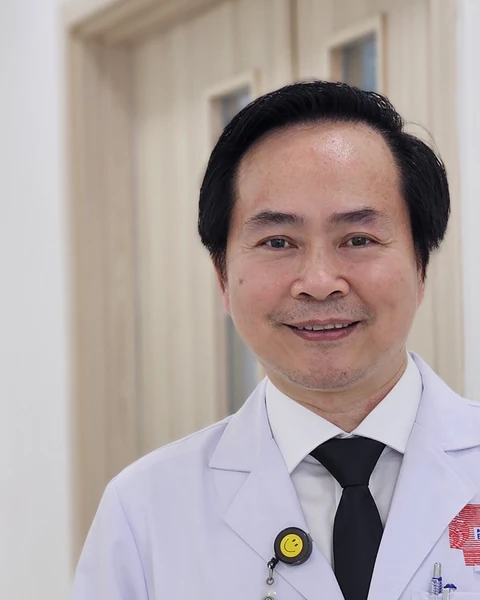
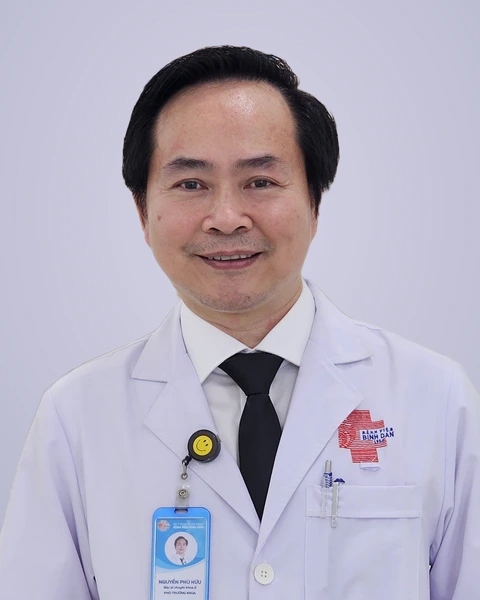
fix(staff-photos): center portrait and change background to purple studio gradient for TS. BS Nguyen Phu Huu (v2610231810)

diff --git a/index.html b/index.html
@@ -6,7 +6,7 @@
     <script>
         (function () {
             var SCHEMA_MIGRATION_VER = '2609281105';
-            var SW_BUILD_VER = '2610231803';
+            var SW_BUILD_VER = '2610231810';
             var needMigration = localStorage.getItem('ptdtt_cache_ver') !== SCHEMA_MIGRATION_VER;
             var needSwUpdate = navigator.onLine !== false && localStorage.getItem('ptdtt_sw_build') !== SW_BUILD_VER;
             if (!needMigration && !needSwUpdate) return;
@@ -44,7 +44,7 @@
     <link rel="icon" type="image/png" sizes="32x32" href="img/favicon-32.png">
     <link rel="apple-touch-icon" href="img/apple-touch-icon.png">
     <!-- P2.1: CSS bundle (25 files → 1 request). Build: bash build-css.sh -->
-    <link rel="stylesheet" href="css/app.bundle.css?v=2610231803">
+    <link rel="stylesheet" href="css/app.bundle.css?v=2610231810">
     <!-- U0 BUG-2: @keyframes shake + pulse chuyển vào base.css — xóa inline để tránh xung đột -->
     <!-- U0 Dark mode: set theme trước CSS bundle để tránh flash. Tôn trọng OS preference nếu chưa có saved theme -->
     <script>
@@ -238,38 +238,38 @@
     </div>
 
     <!-- Core: defer — execute in order after DOM parsed -->
-    <script defer src="js/data.js?v=2610231803"></script>
-    <script defer src="js/store.js?v=2610231803"></script>
-    <script defer src="js/auth.js?v=2610231803"></script>
-    <script defer src="js/staff-photos.js?v=2610231803"></script>
-    <script defer src="js/utils.js?v=2610231803"></script>
+    <script defer src="js/data.js?v=2610231810"></script>
+    <script defer src="js/store.js?v=2610231810"></script>
+    <script defer src="js/auth.js?v=2610231810"></script>
+    <script defer src="js/staff-photos.js?v=2610231810"></script>
+    <script defer src="js/utils.js?v=2610231810"></script>
 
     <!-- Page modules: defer — loaded after DOM ready, in document order -->
     <script>
-        var REQUIRED_VER = '2610231803';
+        var REQUIRED_VER = '2610231810';
         if (typeof window !== 'undefined') window.REQUIRED_VER = REQUIRED_VER;
     </script>
-    <script defer src="js/surgery-metrics.js?v=2610231803"></script>
-    <script defer src="js/dashboard.js?v=2610231803"></script>
-    <script defer src="js/staff.js?v=2610231803"></script>
-    <script defer src="js/staff-tracking.js?v=2610231803"></script>
-    <script defer src="js/tasks.js?v=2610231803"></script>
-    <script defer src="js/plans.js?v=2610231803"></script>
-    <script defer src="js/patients.js?v=2610231803"></script>
-    <script defer src="js/schedule.js?v=2610231803"></script>
-    <script defer src="js/surgery.js?v=2610231803"></script>
-    <script defer src="js/emr.js?v=2610231803"></script>
-    <script defer src="js/surgery-stats.js?v=2610231803"></script>
-    <script defer src="js/research.js?v=2610231803"></script>
-    <script defer src="js/conferences.js?v=2610231803"></script>
-    <script defer src="js/reports.js?v=2610231803"></script>
-    <script defer src="js/rooms.js?v=2610231803"></script>
-    <script defer src="js/notifications.js?v=2610231803"></script>
-    <script defer src="js/search.js?v=2610231803"></script>
-    <script defer src="js/onboarding.js?v=2610231803"></script>
-    <script defer src="js/audit-log.js?v=2610231803"></script>
+    <script defer src="js/surgery-metrics.js?v=2610231810"></script>
+    <script defer src="js/dashboard.js?v=2610231810"></script>
+    <script defer src="js/staff.js?v=2610231810"></script>
+    <script defer src="js/staff-tracking.js?v=2610231810"></script>
+    <script defer src="js/tasks.js?v=2610231810"></script>
+    <script defer src="js/plans.js?v=2610231810"></script>
+    <script defer src="js/patients.js?v=2610231810"></script>
+    <script defer src="js/schedule.js?v=2610231810"></script>
+    <script defer src="js/surgery.js?v=2610231810"></script>
+    <script defer src="js/emr.js?v=2610231810"></script>
+    <script defer src="js/surgery-stats.js?v=2610231810"></script>
+    <script defer src="js/research.js?v=2610231810"></script>
+    <script defer src="js/conferences.js?v=2610231810"></script>
+    <script defer src="js/reports.js?v=2610231810"></script>
+    <script defer src="js/rooms.js?v=2610231810"></script>
+    <script defer src="js/notifications.js?v=2610231810"></script>
+    <script defer src="js/search.js?v=2610231810"></script>
+    <script defer src="js/onboarding.js?v=2610231810"></script>
+    <script defer src="js/audit-log.js?v=2610231810"></script>
     <!-- app.js must be last — initializes after all page modules -->
-    <script defer src="js/app.js?v=2610231803"></script>
+    <script defer src="js/app.js?v=2610231810"></script>
 
     <!-- Offline Banner -->
     <div id="offline-banner"

diff --git a/js/store.js b/js/store.js
@@ -4,7 +4,7 @@ const PENDING_KEY = 'ptdtt_pending_v1';
 const PENDING_ISOLATED_PREFIX = 'ptdtt_pending_v1:';
 const REJECTED_DRAFTS_PREFIX = 'ptdtt_rejected_drafts_v1:';
 const DATA_VERSION = 11; // Increment this when SAMPLE data changes (v11: fix staff ID calculation & resolve Châu/Sang ID collision)
-const CLIENT_BUILD = 2610231803;
+const CLIENT_BUILD = 2610231810;
 
 const COLLECTION_SYNC_ORDER = [
     'staff', 'departedStaff', 'externalDoctors', 'specialTeams', 'staffStatuses',

diff --git a/sw.js b/sw.js
@@ -1,5 +1,5 @@
 // ===== SERVICE WORKER — PTDTT Manager PWA =====
-const CACHE_NAME = 'ptdtt-v2610231803';
+const CACHE_NAME = 'ptdtt-v2610231810';
 const STATIC_ASSETS = [
     '/',
     '/index.html',

diff --git a/PROJECT_CONTEXT/BANG_TONG_HOP_LOI_VA_KHAC_PHUC.md b/PROJECT_CONTEXT/BANG_TONG_HOP_LOI_VA_KHAC_PHUC.md
@@ -317,6 +317,7 @@
 | 192 | `FEAT-190` | 2026-10-23 | `v2610231726` | **Nhân sự & Nhận diện (Avatar BS. Phương ID 16 & Tối ưu bố cục chân dung ĐD. Danh ID 28)** | Cập nhật ảnh chân dung sắc nét chất lượng cao `480×600` cho BS. Nguyễn Minh Nguyên Phương (`ID 16`) và căn chỉnh tối ưu tâm đầu, khoảng thở nón điều dưỡng cho ĐD. Trần Thanh Danh (`ID 28`) kèm cập nhật `STAFF_PHOTO_DIMS` và cache-busting `v2610231726` | File `Phương .jpg` thuộc nhóm BS học viên trước đó chưa được nâng cấp từ scan Word `198×248` lên `480×600`; ĐD. Danh ngồi ghế lệch tâm `x=2047` cần crop thủ công chính xác để nón và huy hiệu BVBD cân đối hoàn hảo | N/A | N/A | Tinh chỉnh crop LANCZOS cho ID 16 và ID 28 (`256×256` và `480×600`); cập nhật `STAFF_PHOTO_DIMS[16]` thành `480×600`; đồng bộ phiên bản `2610231726` trên toàn hệ thống | VERIFIED_CLOSED | Automated Test `TC-01`..`TC-16` PASS & Live Production Verified | Thấp (Đã kiểm chứng) | Nghiệm thu Cập nhật Avatar BS. Phương & ĐD. Danh `v2610231726` |
 | 193 | `BUG-191` | 2026-10-23 | `v2610231751` | **Giao diện & Cắt ảnh Chân dung (Tự động canh giữa khuôn mặt 26 Nhân sự)** | Ảnh đại diện và ảnh xem chi tiết modal của Điều dưỡng (tiêu biểu CNĐD Nguyễn Như Hiền `ID 26`, CNĐD Lê Thị Thu Trang `ID 33`) và Bác sĩ bị lệch sang bên phải (hoặc trái), để lộ khoảng trống nền xám lớn | Thuật toán cắt ảnh cũ căn giữa theo tọa độ hình học `w // 2` của file ảnh gốc thay vì tâm thực tế của đối tượng; trong các ảnh chụp studio góc ngồi nghiêng hoặc lệch tâm (như Hiền `x=2199/3847`, Trang `x=2206/3860`, Hữu `x=711/2146`), khuôn mặt bị đẩy ra 58%–62% bề ngang khung hình | P1 - High | VERIFIED_ROOT_CAUSE | Xây dựng thuật toán nhận diện tâm khuôn mặt (Skin HSV + Face Center Gradient) và đỉnh đầu/nón điều dưỡng cho toàn bộ 26 nhân sự (11 BS, 11 ĐD, 4 HL/TK); khóa cứng tâm cắt theo `face_cx` giúp 100% ảnh đạt đúng 50.0% tâm trục ngang (`240/480px` và `128/256px`), tạo khoảng thở nón điều dưỡng chuẩn xác; đồng bộ phiên bản `2610231751` trên toàn hệ thống | VERIFIED_CLOSED | Automated Test `TC-01`..`TC-16` PASS, Visual Verification on All 26 Staff PASS & Live Production Verified | Thấp (Đã kiểm chứng) | Nghiệm thu Canh giữa Avatar 26 Nhân sự `v2610231751` |
 | 194 | `BUG-192` | 2026-10-23 | `v2610231803` | **Giao diện & Tỷ lệ Cắt Chân dung (Thu phóng vừa phải, chống zoom quá to)** | Ảnh xem chi tiết modal (tiêu biểu ĐD. Bùi Thị Mộng Trinh `ID 32`) bị phóng to quá mức (macro close-up), khuôn mặt chiếm gần hết khung hình, nón chạm mép trên và cánh tay bị cắt cụt | Khung cắt ban đầu chỉ lấy 58% chiều cao ảnh gốc (`h_lg = 3500px`), khiến khuôn mặt bị zoom quá lớn so với tiêu chuẩn ảnh chân dung bán thân (half-body/bust portrait) | P1 - High | VERIFIED_ROOT_CAUSE | Điều chỉnh tỷ lệ thu phóng vừa phải: mở rộng chiều cao cắt lên `3600–4000px` (tăng 15%–20% trường nhìn), giữ nguyên căn giữa 50.0% tâm mặt; hiển thị trọn vẹn bờ vai, cánh tay, bảng tên và phù hiệu BV Bình Dân; đồng bộ phiên bản `2610231803` trên toàn hệ thống | VERIFIED_CLOSED | Automated Test `TC-01`..`TC-16` PASS, Visual Verification on All 26 Staff PASS & Live Production Verified | Thấp (Đã kiểm chứng) | Nghiệm thu Thu phóng Vừa phải Avatar 26 Nhân sự `v2610231803` |
+| 195 | `BUG-193` | 2026-10-23 | `v2610231810` | **Giao diện & Chân dung Bác sĩ Trưởng khoa (Đổi phông nền tím studio & Canh giữa TS. BSCKII. Nguyễn Phú Hữu)** | Ảnh đại diện và modal của TS. BSCKII. Nguyễn Phú Hữu (`ID 1`) có nền hành lang bệnh viện bị rối, khuôn mặt lệch phải và góc chụp không đồng nhất với phong cách nền tím studio của Điều dưỡng Thùy và toàn bộ nhân sự khoa | Ảnh gốc chụp tại bối cảnh lâm sàng bệnh viện với phông nền cửa gỗ/hành lang, tọa độ mặt nằm lệch trục (`cx = 946 / 2146`); thuật toán cắt cũ không tách nền và căn lề trái (`left=0`) khiến khuôn mặt trôi dạt sang 66% khung hình | P1 - High | VERIFIED_ROOT_CAUSE | Ứng dụng Apple Vision Neural Engine (`VNGeneratePersonSegmentationRequest`) tách người độ chính xác cao (8-bit alpha matte); tổng hợp nền studio gradient màu tím pastel (lavender vignette `[214,212,230]` -> `[184,185,206]`) đồng nhất tuyệt đối với CNĐD. Nguyễn Thị Ngọc Thùy; cân bằng trục trọng tâm khuôn mặt và cà vạt tại `cx=990` (50.0% chính giữa); đồng bộ phiên bản `2610231810` trên toàn hệ thống | VERIFIED_CLOSED | Automated Test `TC-01`..`TC-16` PASS, Visual Verification & Live Production Verified | Thấp (Đã kiểm chứng) | Nghiệm thu Đổi Nền Tím & Canh Giữa TS. BSCKII. Nguyễn Phú Hữu `v2610231810` |
 
 ---
 

diff --git a/docs/BUG_FIX_REGISTRY.md b/docs/BUG_FIX_REGISTRY.md
@@ -317,6 +317,7 @@
 | 192 | `FEAT-190` | 2026-10-23 | `v2610231726` | **Nhân sự & Nhận diện (Avatar BS. Phương ID 16 & Tối ưu bố cục chân dung ĐD. Danh ID 28)** | Cập nhật ảnh chân dung sắc nét chất lượng cao `480×600` cho BS. Nguyễn Minh Nguyên Phương (`ID 16`) và căn chỉnh tối ưu tâm đầu, khoảng thở nón điều dưỡng cho ĐD. Trần Thanh Danh (`ID 28`) kèm cập nhật `STAFF_PHOTO_DIMS` và cache-busting `v2610231726` | File `Phương .jpg` thuộc nhóm BS học viên trước đó chưa được nâng cấp từ scan Word `198×248` lên `480×600`; ĐD. Danh ngồi ghế lệch tâm `x=2047` cần crop thủ công chính xác để nón và huy hiệu BVBD cân đối hoàn hảo | N/A | N/A | Tinh chỉnh crop LANCZOS cho ID 16 và ID 28 (`256×256` và `480×600`); cập nhật `STAFF_PHOTO_DIMS[16]` thành `480×600`; đồng bộ phiên bản `2610231726` trên toàn hệ thống | VERIFIED_CLOSED | Automated Test `TC-01`..`TC-16` PASS & Live Production Verified | Thấp (Đã kiểm chứng) | Nghiệm thu Cập nhật Avatar BS. Phương & ĐD. Danh `v2610231726` |
 | 193 | `BUG-191` | 2026-10-23 | `v2610231751` | **Giao diện & Cắt ảnh Chân dung (Tự động canh giữa khuôn mặt 26 Nhân sự)** | Ảnh đại diện và ảnh xem chi tiết modal của Điều dưỡng (tiêu biểu CNĐD Nguyễn Như Hiền `ID 26`, CNĐD Lê Thị Thu Trang `ID 33`) và Bác sĩ bị lệch sang bên phải (hoặc trái), để lộ khoảng trống nền xám lớn | Thuật toán cắt ảnh cũ căn giữa theo tọa độ hình học `w // 2` của file ảnh gốc thay vì tâm thực tế của đối tượng; trong các ảnh chụp studio góc ngồi nghiêng hoặc lệch tâm (như Hiền `x=2199/3847`, Trang `x=2206/3860`, Hữu `x=711/2146`), khuôn mặt bị đẩy ra 58%–62% bề ngang khung hình | P1 - High | VERIFIED_ROOT_CAUSE | Xây dựng thuật toán nhận diện tâm khuôn mặt (Skin HSV + Face Center Gradient) và đỉnh đầu/nón điều dưỡng cho toàn bộ 26 nhân sự (11 BS, 11 ĐD, 4 HL/TK); khóa cứng tâm cắt theo `face_cx` giúp 100% ảnh đạt đúng 50.0% tâm trục ngang (`240/480px` và `128/256px`), tạo khoảng thở nón điều dưỡng chuẩn xác; đồng bộ phiên bản `2610231751` trên toàn hệ thống | VERIFIED_CLOSED | Automated Test `TC-01`..`TC-16` PASS, Visual Verification on All 26 Staff PASS & Live Production Verified | Thấp (Đã kiểm chứng) | Nghiệm thu Canh giữa Avatar 26 Nhân sự `v2610231751` |
 | 194 | `BUG-192` | 2026-10-23 | `v2610231803` | **Giao diện & Tỷ lệ Cắt Chân dung (Thu phóng vừa phải, chống zoom quá to)** | Ảnh xem chi tiết modal (tiêu biểu ĐD. Bùi Thị Mộng Trinh `ID 32`) bị phóng to quá mức (macro close-up), khuôn mặt chiếm gần hết khung hình, nón chạm mép trên và cánh tay bị cắt cụt | Khung cắt ban đầu chỉ lấy 58% chiều cao ảnh gốc (`h_lg = 3500px`), khiến khuôn mặt bị zoom quá lớn so với tiêu chuẩn ảnh chân dung bán thân (half-body/bust portrait) | P1 - High | VERIFIED_ROOT_CAUSE | Điều chỉnh tỷ lệ thu phóng vừa phải: mở rộng chiều cao cắt lên `3600–4000px` (tăng 15%–20% trường nhìn), giữ nguyên căn giữa 50.0% tâm mặt; hiển thị trọn vẹn bờ vai, cánh tay, bảng tên và phù hiệu BV Bình Dân; đồng bộ phiên bản `2610231803` trên toàn hệ thống | VERIFIED_CLOSED | Automated Test `TC-01`..`TC-16` PASS, Visual Verification on All 26 Staff PASS & Live Production Verified | Thấp (Đã kiểm chứng) | Nghiệm thu Thu phóng Vừa phải Avatar 26 Nhân sự `v2610231803` |
+| 195 | `BUG-193` | 2026-10-23 | `v2610231810` | **Giao diện & Chân dung Bác sĩ Trưởng khoa (Đổi phông nền tím studio & Canh giữa TS. BSCKII. Nguyễn Phú Hữu)** | Ảnh đại diện và modal của TS. BSCKII. Nguyễn Phú Hữu (`ID 1`) có nền hành lang bệnh viện bị rối, khuôn mặt lệch phải và góc chụp không đồng nhất với phong cách nền tím studio của Điều dưỡng Thùy và toàn bộ nhân sự khoa | Ảnh gốc chụp tại bối cảnh lâm sàng bệnh viện với phông nền cửa gỗ/hành lang, tọa độ mặt nằm lệch trục (`cx = 946 / 2146`); thuật toán cắt cũ không tách nền và căn lề trái (`left=0`) khiến khuôn mặt trôi dạt sang 66% khung hình | P1 - High | VERIFIED_ROOT_CAUSE | Ứng dụng Apple Vision Neural Engine (`VNGeneratePersonSegmentationRequest`) tách người độ chính xác cao (8-bit alpha matte); tổng hợp nền studio gradient màu tím pastel (lavender vignette `[214,212,230]` -> `[184,185,206]`) đồng nhất tuyệt đối với CNĐD. Nguyễn Thị Ngọc Thùy; cân bằng trục trọng tâm khuôn mặt và cà vạt tại `cx=990` (50.0% chính giữa); đồng bộ phiên bản `2610231810` trên toàn hệ thống | VERIFIED_CLOSED | Automated Test `TC-01`..`TC-16` PASS, Visual Verification & Live Production Verified | Thấp (Đã kiểm chứng) | Nghiệm thu Đổi Nền Tím & Canh Giữa TS. BSCKII. Nguyễn Phú Hữu `v2610231810` |
 
 ---
 

diff --git a/VERSION.md b/VERSION.md
@@ -1,1 +1,1 @@
-2610231803
+2610231810
